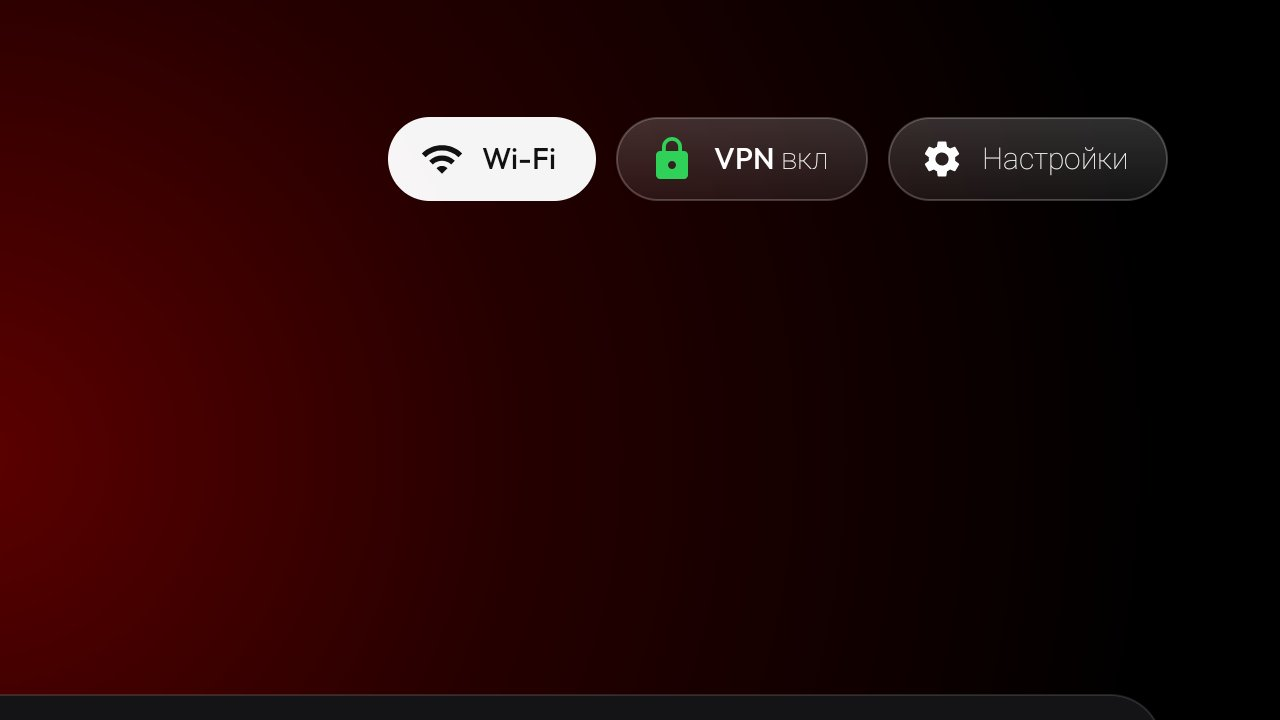
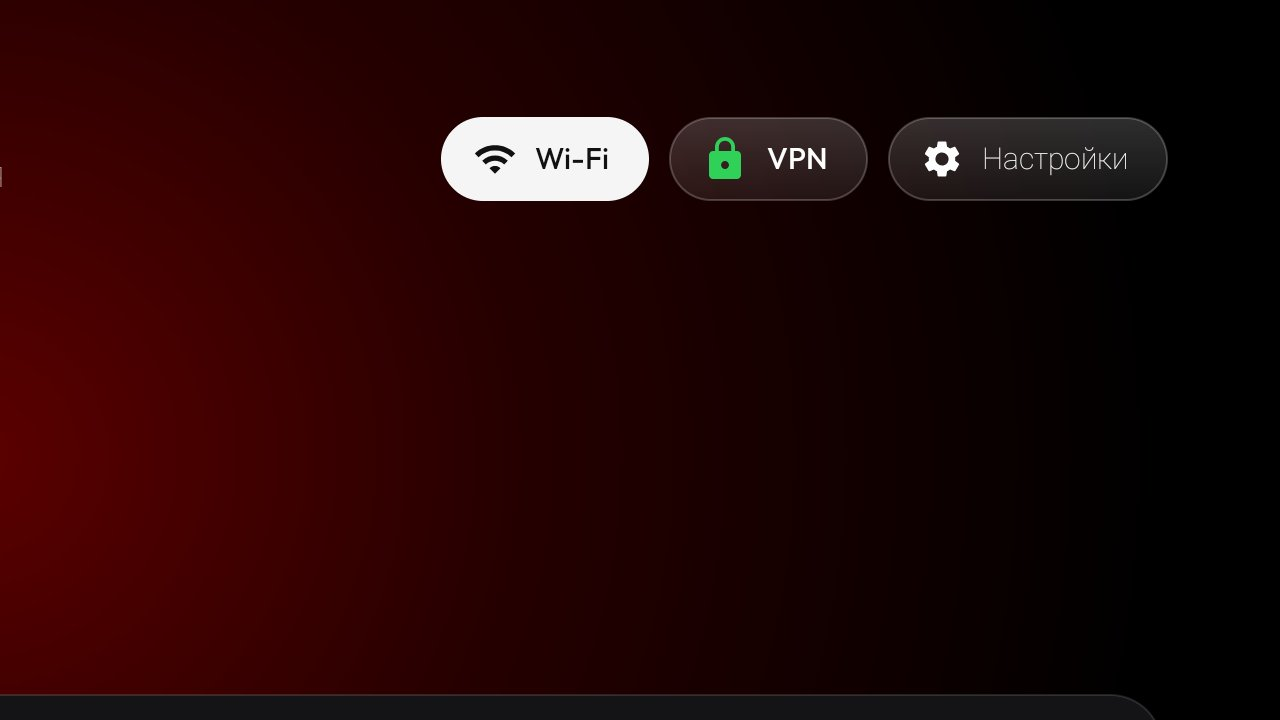
Launcher: пилюля VPN — только «VPN», состояние показывает замок
Текст всегда «VPN», ширина пилюли не меняется. Выключен — открытый замок (новый
ic_lock_open в стиле ic_lock) обычного цвета; включён — закрытый замок зелёным
VpnBadge (#30D158), на белой сфокусированной пилюле — более тёмный зелёный #1E9E45;
после нажатия — та же иконка вполовину прозрачности. contentDescription
«VPN включён/выключен» (en/ru/iw). Скриншот docs/switches/vpn_pill.jpg обновлён.
Проверено на Mi TV Stick, Android 9: все четыре состояния, итог — VPN выключен.

Changed region(s): [[0.2812, 0.1528, 0.6562, 0.3056]]

diff --git a/launcher/app/src/main/java/com/gathin/tvhome/MainActivity.java b/launcher/app/src/main/java/com/gathin/tvhome/MainActivity.java
@@ -2691,22 +2691,29 @@ public class MainActivity extends Activity implements AppAdapter.TileListener {
     }
 
     private static final long VPN_BUSY_MS = 10_000L;
-    private static final int VPN_GREEN = 0xFF30D158;
-    private ColorStateList vpnOnTint, vpnOffTint;
+    private static final int VPN_GREEN = 0xFF30D158, VPN_GREEN_ON_WHITE = 0xFF1E9E45;
+    private ColorStateList vpnOnTint, vpnOffTint, vpnBusyTint;
 
-    /** "VPN on" with a green lock, "VPN off", or "VPN…" between OK and the answer. Called from updateWifiLabel. */
+    /** A green closed lock while a VPN is up, an open one otherwise, faded between OK and the answer. From updateWifiLabel. */
     private void updateVpnPill(boolean up) {
         if (vpnShown != null && vpnShown != up) vpnBusyUntil = 0;   // the switch went through
-        vpnShown = up;
         boolean busy = SystemClock.uptimeMillis() < vpnBusyUntil;
-        CharSequence text = getString(busy ? R.string.vpn_toggle_busy : up ? R.string.vpn_toggle_on : R.string.vpn_toggle_off);
-        if (!TextUtils.equals(btnVpn.getText(), text)) btnVpn.setText(text);
-        // Green while up, except on the focused (white) pill, where the usual dark icon stays readable.
-        if (vpnOnTint == null) {
-            vpnOnTint = new ColorStateList(new int[][]{{android.R.attr.state_focused}, {}}, new int[]{0xFF111111, VPN_GREEN});
-            vpnOffTint = btnVpn.getCompoundDrawableTintList();
+        // The text stays "VPN", so the pill keeps its width; the lock carries the state, the description says it.
+        if (vpnShown == null || vpnShown != up) {
+            btnVpn.setCompoundDrawablesRelativeWithIntrinsicBounds(up ? R.drawable.ic_lock : R.drawable.ic_lock_open, 0, 0, 0);
+            btnVpn.setContentDescription(getString(up ? R.string.vpn_toggle_on : R.string.vpn_toggle_off));
         }
-        ColorStateList tint = up && !busy ? vpnOnTint : vpnOffTint;
+        vpnShown = up;
+        if (vpnOnTint == null) {
+            vpnOffTint = btnVpn.getCompoundDrawableTintList();
+            // VpnBadge's green; a darker shade of it on the focused (white) pill, where the light one washes out.
+            vpnOnTint = new ColorStateList(new int[][]{{android.R.attr.state_focused}, {}},
+                    new int[]{VPN_GREEN_ON_WHITE, VPN_GREEN});
+            // Between OK and the answer: the same icon at half strength.
+            vpnBusyTint = new ColorStateList(new int[][]{{android.R.attr.state_focused}, {}},
+                    new int[]{0x80111111, 0x80FFFFFF});
+        }
+        ColorStateList tint = busy ? vpnBusyTint : up ? vpnOnTint : vpnOffTint;
         if (btnVpn.getCompoundDrawableTintList() != tint) btnVpn.setCompoundDrawableTintList(tint);
     }
 
